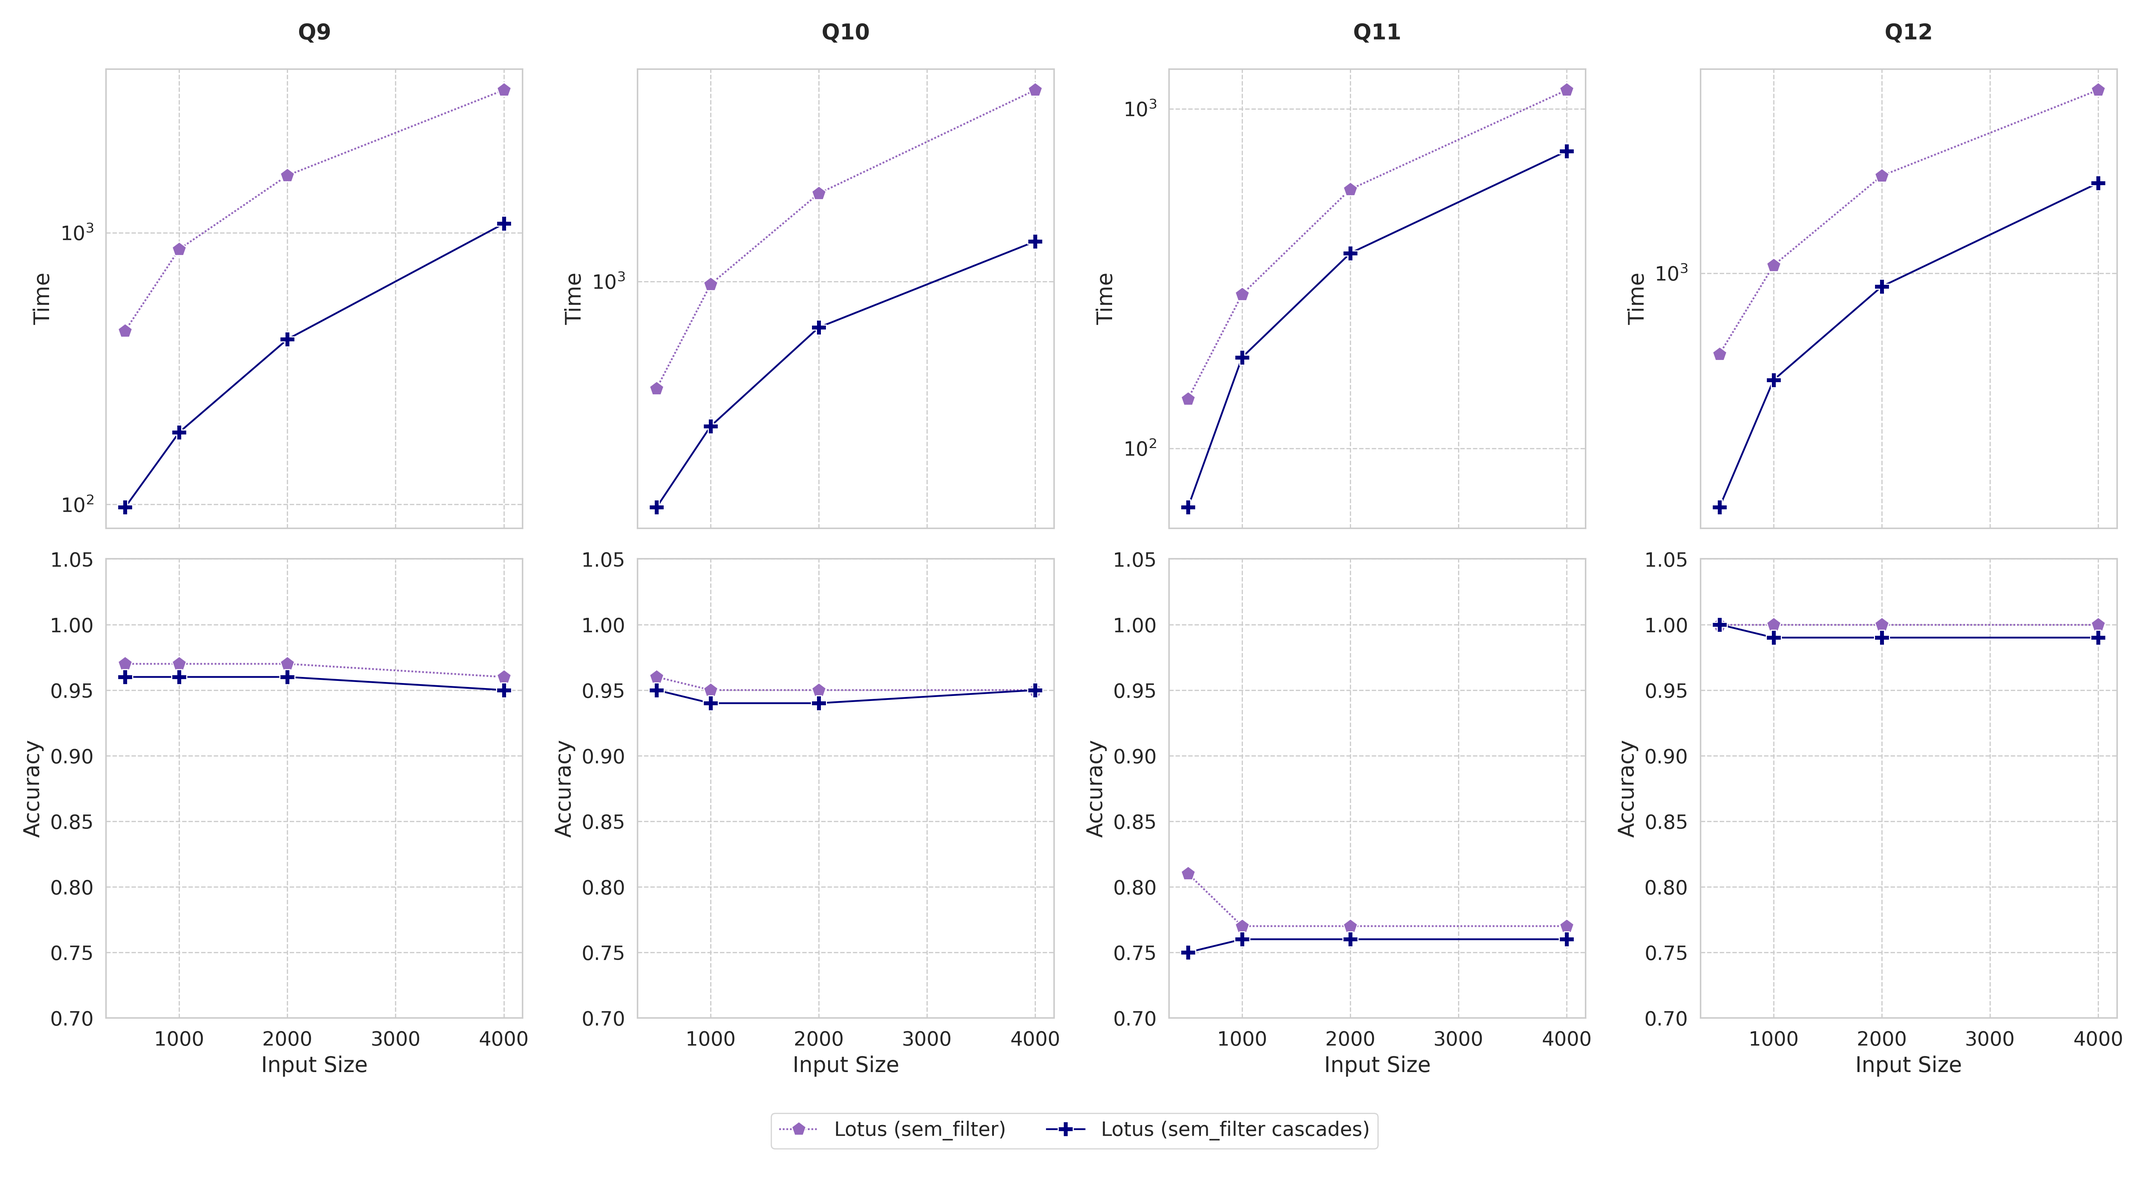
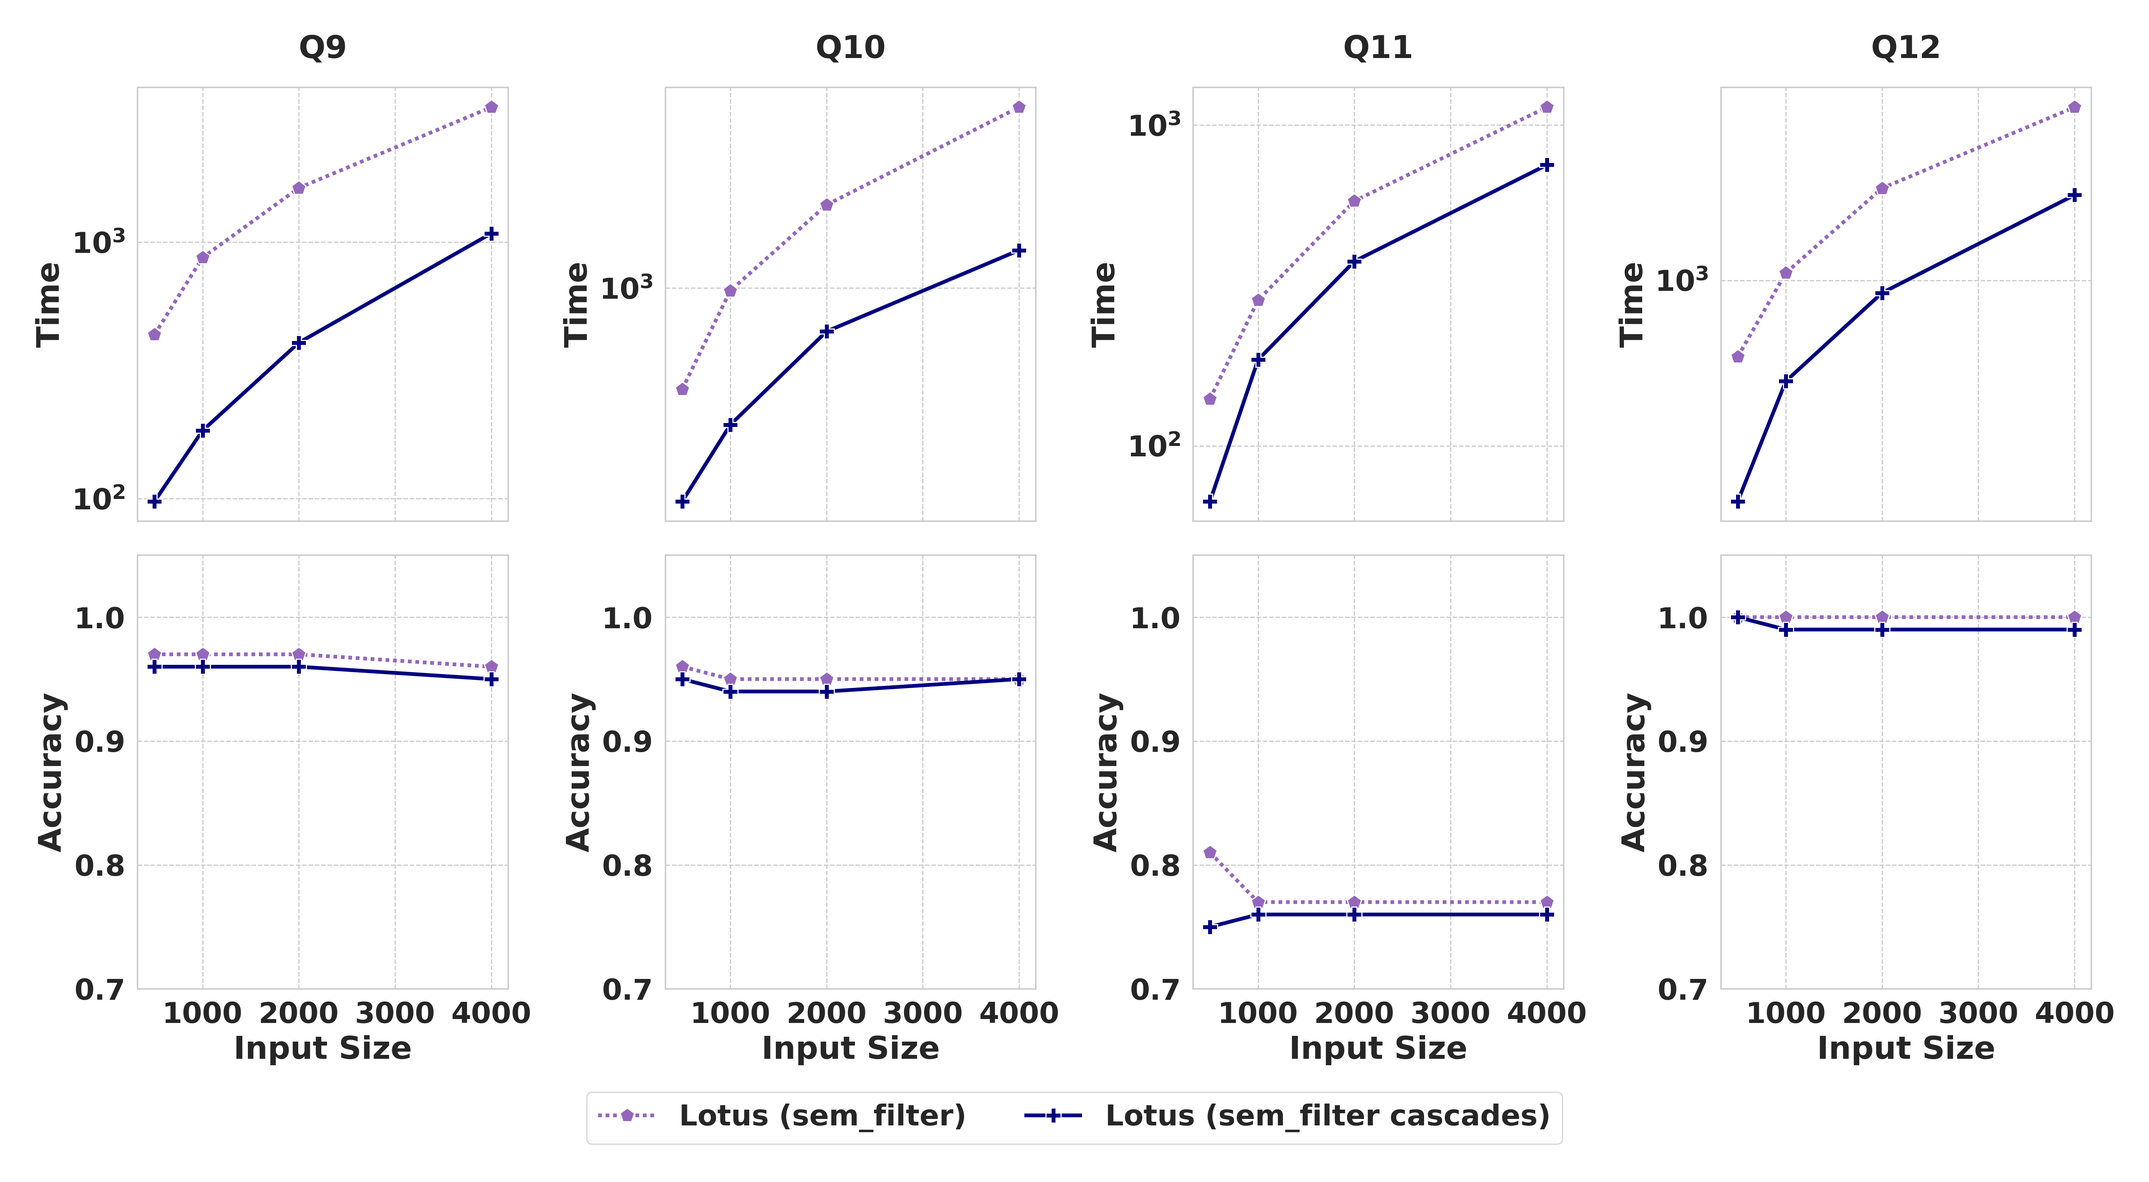
finalized plots, removed readme

diff --git a/plots.py b/plots.py
@@ -7,10 +7,6 @@ import os
 if not os.path.exists('figures'):
     os.makedirs('figures')
 
-# ==========================================
-# 1. GLOBAL MASTER STYLING CONFIGURATION
-# ==========================================
-# Unified mapping for all possible System (Operator) combinations
 STYLE_MAP = {
     "Lotus (sem_map)":            {"color": "#1f77b4", "dash": (1, 0),   "marker": "o"}, # Solid Blue
     "Lotus (sem_extract)":        {"color": "#4eb3d3", "dash": (4, 1.5), "marker": "s"}, # Dashed Cyan
@@ -33,12 +29,10 @@ def get_style_params(labels):
     dashes = {l: STYLE_MAP[l]["dash"] for l in labels if l in STYLE_MAP}
     return palette, markers, dashes
 
-sns.set_context("paper", font_scale=1.5)
+sns.set_context("paper", font_scale=2.2, rc={"lines.linewidth": 2.5})
 sns.set_style("whitegrid", {'grid.linestyle': '--'})
+plt.rcParams.update({'font.weight': 'bold', 'axes.labelweight': 'bold'})
 
-# ==========================================
-# 2. DATASETS DEFINITION
-# ==========================================
 data_1_6 = [
     # Q1
     ["Q1", "Lotus", "sem_map", 50, 15.92, 0.71], ["Q1", "Lotus", "sem_map", 100, 25.98, 0.64], ["Q1", "Lotus", "sem_map", 200, 61.93, 0.57], ["Q1", "Lotus", "sem_map", 300, 91.12, 0.52], ["Q1", "Lotus", "sem_map", 500, 132.00, 0.37], 
@@ -147,86 +141,135 @@ data_16_18 = [
     ["Q18", "Lotus", "sem_agg", 10, 1.46, 0.00],["Q18", "Lotus", "sem_agg", 20, 1.34, 0.00],["Q18", "Lotus", "sem_agg", 30, 1.38, 0.00],["Q18", "Lotus", "sem_agg", 40, np.nan, np.nan],["Q18", "Lotus", "sem_agg", 50, np.nan, np.nan],["Q18", "Lotus", "sem_agg", 60, np.nan, np.nan],
     ["Q18", "BlendSQL", "LLMQA", 10, 0.99, 0.00],["Q18", "BlendSQL", "LLMQA", 20, 1.00, 0.00],["Q18", "BlendSQL", "LLMQA", 30, 2.37, 0.00],["Q18", "BlendSQL", "LLMQA", 40, np.nan, np.nan],["Q18", "BlendSQL", "LLMQA", 50, np.nan, np.nan],["Q18", "BlendSQL", "LLMQA", 60, np.nan, np.nan]
 ]
-# ==========================================
-# 3. PLOTTING FUNCTIONS
-# ==========================================
 
 def plot_case_1_6():
-    print("Generating Case 1-6 (1st & 2nd Derivation Cases)...")
+    print("Generating Case 1-6 (Derivation -- 1st & 2nd Cases)...")
     df = pd.DataFrame(data_1_6, columns=["Query", "System", "Operator", "Input Size", "Time", "Accuracy"])
     df["Label"] = df["System"] + " (" + df["Operator"] + ")"
     palette, markers, dashes = get_style_params(df["Label"].unique())
+    fig, axes = plt.subplots(3, 4, figsize=(20, 15), sharex=True)
+    queries = ["Q1", "Q2", "Q3", "Q4", "Q5", "Q6"]
     
-    # Individual Grid
-    fig, axes = plt.subplots(4, 3, figsize=(16, 15), sharex=True)
-    for idx, q in enumerate(["Q1", "Q2", "Q3", "Q4", "Q5", "Q6"]):
-        col, row = idx % 3, (0 if idx < 3 else 2)
-        q_df = df[df["Query"] == q]
-        sns.lineplot(data=q_df, x="Input Size", y="Time", hue="Label", style="Label", palette=palette, markers=markers, dashes=dashes, markersize=8, ax=axes[row, col], legend=False)
-        axes[row, col].set_title(f"{q}", fontweight='bold')
-        sns.lineplot(data=q_df, x="Input Size", y="Accuracy", hue="Label", style="Label", palette=palette, markers=markers, dashes=dashes, markersize=8, ax=axes[row+1, col], legend=(idx==0))
-        axes[row+1, col].set_ylim(0, 1.05)
+    handles, labels = [], []
 
-    handles, labels = axes[1, 0].get_legend_handles_labels()
-    axes[1, 0].get_legend().remove()
-    fig.legend(handles, labels, loc='lower center', bbox_to_anchor=(0.5, 0.02), ncol=4, frameon=True)
-    plt.tight_layout(rect=[0, 0.05, 1, 1])
+    for idx, q in enumerate(queries):
+        row = idx // 2
+        # If Q1, Q3, Q5 -> col 0 & 1. If Q2, Q4, Q6 -> col 2 & 3
+        col_base = 0 if idx % 2 == 0 else 2 
+        
+        q_df = df[df["Query"] == q]
+        
+        # --- Plot Time ---
+        show_leg = (idx == 0)
+        ax_time = axes[row, col_base]
+        sns.lineplot(data=q_df, x="Input Size", y="Time", hue="Label", style="Label", 
+                     palette=palette, markers=markers, dashes=dashes, markersize=10, 
+                     ax=ax_time, legend=show_leg)
+        
+        ax_time.set_title(f"{q}", fontweight='bold', fontsize=25)
+        ax_time.set_ylabel("Time", fontsize=25)
+        
+        # Capture handles from the first plot then hide its legend
+        if show_leg:
+            handles, labels = ax_time.get_legend_handles_labels()
+            ax_time.get_legend().remove()
+
+        # --- Plot Accuracy ---
+        ax_acc = axes[row, col_base + 1]
+        sns.lineplot(data=q_df, x="Input Size", y="Accuracy", hue="Label", style="Label", 
+                     palette=palette, markers=markers, dashes=dashes, markersize=10, 
+                     ax=ax_acc, legend=False)
+        
+        ax_acc.set_title(f"{q}", fontweight='bold', fontsize=25)
+        ax_acc.set_ylim(0, 1.05)
+        ax_acc.set_ylabel("Accuracy", fontsize=25)
+        # Global Legend
+    if labels:
+        fig.legend(handles, labels, loc='lower center', bbox_to_anchor=(0.5, -0.005), 
+                   ncol=2, frameon=True, fontsize=23)
+
+    plt.tight_layout(rect=[0, 0.07, 1, 1])
     plt.savefig('figures/case_1_6_individual.png', dpi=300)
 
     # --- Aggregate Plot ---
     agg = df.groupby(["Label", "Input Size"])[["Time", "Accuracy"]].mean().reset_index()
-    fig, (ax1, ax2) = plt.subplots(1, 2, figsize=(16, 7))
+    fig, (ax1, ax2) = plt.subplots(1, 2, figsize=(11, 6))
     for ax, y_v, tit in zip([ax1, ax2], ["Time", "Accuracy"], ["Average Execution Time", "Average Accuracy"]):
         sns.lineplot(data=agg, x="Input Size", y=y_v, hue="Label", style="Label", palette=palette, markers=markers, dashes=dashes, markersize=12, ax=ax, legend=True)
-        ax.set_title(f"{tit} (Q1-Q6)", fontweight='bold')
+        ax.set_title(f"{tit}", fontweight='bold', fontsize=20)
         if y_v == "Accuracy": ax.set_ylim(0, 1.05)
         ax.get_legend().remove()
     
     handles, labels = ax1.get_legend_handles_labels()
-    fig.legend(handles, labels, loc='lower center', bbox_to_anchor=(0.5, 0.02), ncol=4, frameon=True)
+    fig.legend(handles, labels, loc='lower center', bbox_to_anchor=(0.5, -0.017), ncol=2, frameon=True, fontsize=18)
     plt.tight_layout(rect=[0, 0.12, 1, 1])
     plt.savefig('figures/case_1_6_aggregate.png', dpi=300)
+    
 
 def plot_case_7_8():
-    print("Generating Case 7-8 (Third Derivation Case)...")
+    print("Generating Case 7-8 (Derivation -- 3rd Case)...")
     df = pd.DataFrame(data_7_8, columns=["Query", "System", "Operator", "Input Size", "Time", "F1", "Accuracy"])
     df["Label"] = df["System"] + " (" + df["Operator"] + ")"
     palette, markers, dashes = get_style_params(df["Label"].unique())
     
-    # --- Individual Grid ---
-    fig, axes = plt.subplots(3, 2, figsize=(12, 14), sharex=True)
-    for i, q in enumerate(["Q7", "Q8"]):
-        q_df = df[df["Query"] == q]
-        for row, metric in enumerate(["Time", "Accuracy", "F1"]):
-            ax = axes[row, i]
-            sns.lineplot(data=q_df, x="Input Size", y=metric, hue="Label", style="Label", palette=palette, markers=markers, dashes=dashes, markersize=10, ax=ax, legend=(i==0 and row==0))
-            if row == 0: 
-                ax.set_yscale('log')
-                ax.set_title(f"{q}", fontweight='bold', pad=20)
-            else: ax.set_ylim(0, 1.05)
+    # 2 rows (Queries), 3 columns (Metrics)
+    fig, axes = plt.subplots(2, 3, figsize=(20, 10), sharex=True)
+    queries = ["Q7", "Q8"]
+    metrics = ["Time", "Accuracy", "F1"]
     
+    for i, q in enumerate(queries):
+        q_df = df[df["Query"] == q]
+        for j, metric in enumerate(metrics):
+            ax = axes[i, j]
+            show_legend = (i == 0 and j == 0)
+            
+            sns.lineplot(data=q_df, x="Input Size", y=metric, hue="Label", style="Label", 
+                         palette=palette, markers=markers, dashes=dashes, markersize=10, 
+                         ax=ax, legend=show_legend)
+            
+            if i == 0:
+                ax.set_title(f"{metric}", fontweight='bold', fontsize=22, pad=15)
+            
+            if j == 0:
+                ax.set_ylabel("Time", fontsize=18, fontweight='bold')
+                ax.set_yscale('log')
+                
+                ax.text(-0.5, 0.5, q, transform=ax.transAxes, 
+                        fontsize=25, fontweight='bold', rotation=0,
+                        va='center', ha='right')
+            else:
+                ax.set_ylabel(metric, fontsize=18)
+                ax.set_ylim(0, 1.05)
+
+    # Global Legend
     handles, labels = axes[0, 0].get_legend_handles_labels()
-    axes[0, 0].get_legend().remove()
-    fig.legend(handles, labels, loc='lower center', bbox_to_anchor=(0.5, 0.02), ncol=5, frameon=True)
-    plt.tight_layout(rect=[0, 0.08, 1, 1])
+    if axes[0, 0].get_legend():
+        axes[0, 0].get_legend().remove()
+        
+    fig.legend(handles, labels, loc='lower center', bbox_to_anchor=(0.6, -0.01), 
+               ncol=3, frameon=True, fontsize=21)
+    
+    # Increase the first value in rect (0.1) to make room for the Q7/Q8 text
+    plt.tight_layout(rect=[0.1, 0.08, 1, 1])
     plt.savefig('figures/case_7_8_individual.png', dpi=300)
 
     # --- Aggregate Plot ---
     agg = df.groupby(["Label", "Input Size"])[["Time", "Accuracy", "F1"]].mean().reset_index()
-    fig, axes = plt.subplots(1, 3, figsize=(20, 7))
+    fig, axes = plt.subplots(1, 3, figsize=(15, 5))
     metrics, titles = ["Time", "Accuracy", "F1"], ["Average Execution Time", "Average Accuracy", "Average F1 Score"]
 
     for i, (metric, title) in enumerate(zip(metrics, titles)):
         sns.lineplot(data=agg, x="Input Size", y=metric, hue="Label", style="Label", palette=palette, markers=markers, dashes=dashes, markersize=12, ax=axes[i], legend=True)
-        axes[i].set_title(f"{title} (Q7-Q8)", fontweight='bold')
+        axes[i].set_title(f"{title}", fontweight='bold', fontsize=20)
         if metric == "Time": axes[i].set_yscale('log')
         else: axes[i].set_ylim(0, 1.05)
         axes[i].get_legend().remove()
 
     handles, labels = axes[0].get_legend_handles_labels()
-    fig.legend(handles, labels, loc='lower center', bbox_to_anchor=(0.5, 0.02), ncol=5, frameon=True)
+    fig.legend(handles, labels, loc='lower center', bbox_to_anchor=(0.5, 0.0), ncol=3, frameon=True, fontsize=18)
     plt.tight_layout(rect=[0, 0.15, 1, 1])
     plt.savefig('figures/case_7_8_aggregate.png', dpi=300)
+
 
 def plot_case_9_12():
     print("Generating Case 9-12 (Filter)...")
@@ -235,33 +278,33 @@ def plot_case_9_12():
     palette, markers, dashes = get_style_params(df["Label"].unique())
     
     # --- Individual Grid ---
-    fig, axes = plt.subplots(2, 4, figsize=(20, 11), sharex=True)
+    fig, axes = plt.subplots(2, 4, figsize=(15, 7), sharex=True)
     for i, q in enumerate(["Q9", "Q10", "Q11", "Q12"]):
         q_df = df[df["Query"] == q]
         sns.lineplot(data=q_df, x="Input Size", y="Time", hue="Label", style="Label", palette=palette, dashes=dashes, markers=markers, markersize=10, ax=axes[0, i], legend=(i==0))
         axes[0, i].set_yscale('log')
-        axes[0, i].set_title(f"{q}", fontweight='bold', pad=20)
+        axes[0, i].set_title(f"{q}", fontweight='bold', pad=20, fontsize=25)
         sns.lineplot(data=q_df, x="Input Size", y="Accuracy", hue="Label", style="Label", palette=palette, dashes=dashes, markers=markers, markersize=10, ax=axes[1, i], legend=False)
         axes[1, i].set_ylim(0.7, 1.05)
 
     handles, labels = axes[0, 0].get_legend_handles_labels()
     axes[0, 0].get_legend().remove()
-    fig.legend(handles, labels, loc='lower center', bbox_to_anchor=(0.5, 0.02), ncol=2, frameon=True)
+    fig.legend(handles, labels, loc='lower center', bbox_to_anchor=(0.5, -0.01), ncol=2, frameon=True, fontsize=23)
     plt.tight_layout(rect=[0, 0.07, 1, 1])
     plt.savefig('figures/case_9_12_individual.png', dpi=300)
 
     # --- Aggregate Plot ---
     agg = df.groupby(["Label", "Input Size"])[["Time", "Accuracy"]].mean().reset_index()
-    fig, (ax1, ax2) = plt.subplots(1, 2, figsize=(16, 7))
+    fig, (ax1, ax2) = plt.subplots(1, 2, figsize=(9, 4.5))
     for ax, y_v, tit in zip([ax1, ax2], ["Time", "Accuracy"], ["Average Execution Time", "Average Accuracy"]):
         sns.lineplot(data=agg, x="Input Size", y=y_v, hue="Label", style="Label", palette=palette, markers=markers, dashes=dashes, markersize=12, ax=ax, legend=True)
-        ax.set_title(f"{tit} (Q9-Q12)", fontweight='bold')
+        ax.set_title(f"{tit}", fontweight='bold', fontsize=18)
         if y_v == "Time": ax.set_yscale('log')
         else: ax.set_ylim(0.7, 1.05)
         ax.get_legend().remove()
     
     handles, labels = ax1.get_legend_handles_labels()
-    fig.legend(handles, labels, loc='lower center', bbox_to_anchor=(0.5, 0.02), ncol=2, frameon=True)
+    fig.legend(handles, labels, loc='lower center', bbox_to_anchor=(0.5, 0.00), ncol=2, frameon=True, fontsize=20)
     plt.tight_layout(rect=[0, 0.12, 1, 1])
     plt.savefig('figures/case_9_12_aggregate.png', dpi=300)
 
@@ -292,7 +335,7 @@ def plot_optimized_9_12():
     fig, (ax1, ax2) = plt.subplots(1, 2, figsize=(16, 7))
     for ax, y_v, tit in zip([ax1, ax2], ["Time", "Accuracy"], ["Average Execution Time", "Average Accuracy"]):
         sns.lineplot(data=agg, x="Input Size", y=y_v, hue="Label", style="Label", palette=palette, markers=markers, dashes=dashes, markersize=12, ax=ax, legend=True)
-        ax.set_title(f"{tit} (Lotus Optimization)", fontweight='bold')
+        ax.set_title(f"{tit} (Lotus Optimization)", fontweight='bold', fontsize=18)
         if y_v == "Time": ax.set_yscale('log')
         else: ax.set_ylim(0.7, 1.05)
         ax.get_legend().remove()
@@ -309,24 +352,24 @@ def plot_case_13_15():
     palette, markers, dashes = get_style_params(df["Label"].unique())
     
     # --- Individual Grid ---
-    fig, axes = plt.subplots(2, 3, figsize=(18, 11), sharex=True)
+    fig, axes = plt.subplots(2, 3, figsize=(13, 7), sharex=True)
     for i, q in enumerate(["Q13", "Q14", "Q15"]):
         q_df = df[df["Query"] == q]
         sns.lineplot(data=q_df, x="Input Size", y="Time", hue="Label", style="Label", palette=palette, dashes=dashes, markers=markers, markersize=10, ax=axes[0, i], legend=(i==0))
         axes[0, i].set_yscale('log')
-        axes[0, i].set_title(f"{q}", fontweight='bold', pad=20)
+        axes[0, i].set_title(f"{q}", fontweight='bold', pad=20, fontsize=25)
         sns.lineplot(data=q_df, x="Input Size", y="F1-Score", hue="Label", style="Label", palette=palette, dashes=dashes, markers=markers, markersize=10, ax=axes[1, i], legend=False)
         axes[1, i].set_ylim(-0.05, 1.05)
 
     handles, labels = axes[0, 0].get_legend_handles_labels()
     axes[0, 0].get_legend().remove()
-    fig.legend(handles, labels, loc='lower center', bbox_to_anchor=(0.5, 0.02), ncol=2, frameon=True)
+    fig.legend(handles, labels, loc='lower center', bbox_to_anchor=(0.5, -0.01), ncol=2, frameon=True, fontsize=23)
     plt.tight_layout(rect=[0, 0.07, 1, 1])
     plt.savefig('figures/case_13_15_join_individual.png', dpi=300)
 
     # --- Aggregate Plot ---
     agg = df.groupby(["Label", "Input Size"])[["Time", "F1-Score"]].mean().reset_index()
-    fig, (ax1, ax2) = plt.subplots(1, 2, figsize=(16, 7))
+    fig, (ax1, ax2) = plt.subplots(1, 2, figsize=(10, 5))
     for ax, y_v, tit in zip([ax1, ax2], ["Time", "F1-Score"], ["Average Execution Time", "Average F1-Score"]):
         sns.lineplot(data=agg, x="Input Size", y=y_v, hue="Label", style="Label", palette=palette, markers=markers, dashes=dashes, markersize=12, ax=ax, legend=True)
         ax.set_title(f"{tit}", fontweight='bold')
@@ -335,7 +378,7 @@ def plot_case_13_15():
         ax.get_legend().remove()
     
     handles, labels = ax1.get_legend_handles_labels()
-    fig.legend(handles, labels, loc='lower center', bbox_to_anchor=(0.5, 0.02), ncol=2, frameon=True)
+    fig.legend(handles, labels, loc='lower center', bbox_to_anchor=(0.5, 0.0), ncol=2, frameon=True)
     plt.tight_layout(rect=[0, 0.12, 1, 1])
     plt.savefig('figures/case_13_15_join_aggregate.png', dpi=300)
 
@@ -347,7 +390,7 @@ def plot_case_16_18():
     palette, markers, dashes = get_style_params(df["Label"].unique())
     
     # --- Individual Grid ---
-    fig, axes = plt.subplots(2, 3, figsize=(18, 11), sharex=True)
+    fig, axes = plt.subplots(2, 3, figsize=(12, 7), sharex=True)
     queries = ["Q16", "Q17", "Q18"]
     
     for i, q in enumerate(queries):
@@ -357,8 +400,8 @@ def plot_case_16_18():
         sns.lineplot(data=q_df, x="Input Size", y="Time", hue="Label", style="Label", 
                      palette=palette, dashes=dashes, markers=markers, markersize=10, 
                      ax=axes[0, i], legend=(i==0))
-        axes[0, i].set_title(f"{q}", fontweight='bold', pad=20)
-        axes[0, i].set_ylabel("Time (s)")
+        axes[0, i].set_title(f"{q}", fontweight='bold', pad=20, fontsize=25)
+        axes[0, i].set_ylabel("Time")
         
         # Accuracy Plot
         sns.lineplot(data=q_df, x="Input Size", y="Accuracy", hue="Label", style="Label", 
@@ -372,20 +415,20 @@ def plot_case_16_18():
     handles, labels = axes[0, 0].get_legend_handles_labels()
     if axes[0, 0].get_legend():
         axes[0, 0].get_legend().remove()
-    fig.legend(handles, labels, loc='lower center', bbox_to_anchor=(0.5, 0.02), ncol=2, frameon=True)
+    fig.legend(handles, labels, loc='lower center', bbox_to_anchor=(0.5, -0.01), ncol=2, frameon=True, fontsize=25)
     
     plt.tight_layout(rect=[0, 0.07, 1, 1])
     plt.savefig('figures/case_16_18_agg_individual.png', dpi=300)
 
     # --- Aggregate Plot ---
     agg = df.groupby(["Label", "Input Size"])[["Time", "Accuracy"]].mean().reset_index()
-    fig, (ax1, ax2) = plt.subplots(1, 2, figsize=(16, 7))
+    fig, (ax1, ax2) = plt.subplots(1, 2, figsize=(11, 5))
     
     for ax, y_v, tit in zip([ax1, ax2], ["Time", "Accuracy"], ["Average Execution Time", "Average Accuracy"]):
         sns.lineplot(data=agg, x="Input Size", y=y_v, hue="Label", style="Label", 
                      palette=palette, markers=markers, dashes=dashes, markersize=12, 
                      ax=ax, legend=True)
-        ax.set_title(f"{tit}", fontweight='bold')
+        ax.set_title(f"{tit}", fontweight='bold', fontsize=25)
         ax.set_xlabel("Input Size")
         ax.set_ylabel(y_v if y_v == "Time" else "Accuracy")
         
@@ -396,14 +439,11 @@ def plot_case_16_18():
         ax.get_legend().remove()
     
     handles, labels = ax1.get_legend_handles_labels()
-    fig.legend(handles, labels, loc='lower center', bbox_to_anchor=(0.5, 0.02), ncol=2, frameon=True)
+    fig.legend(handles, labels, loc='lower center', bbox_to_anchor=(0.5, -0.01), ncol=2, frameon=True, fontsize=25)
     
     plt.tight_layout(rect=[0, 0.12, 1, 1])
     plt.savefig('figures/case_16_18_agg_aggregate.png', dpi=300)
 
-# ==========================================
-# 4. EXECUTION
-# ==========================================
 if __name__ == "__main__":
     plot_case_1_6()
     plot_case_7_8()
